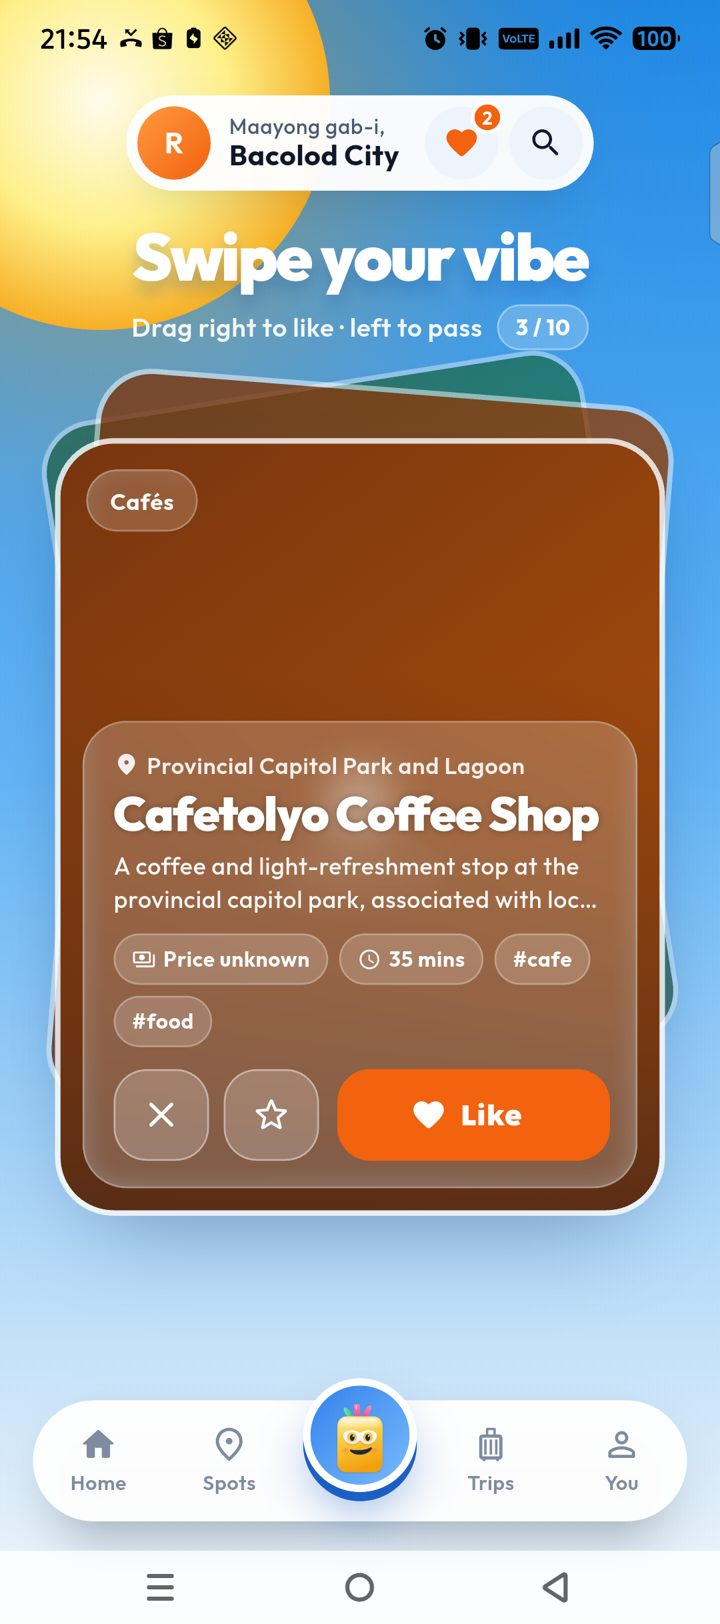
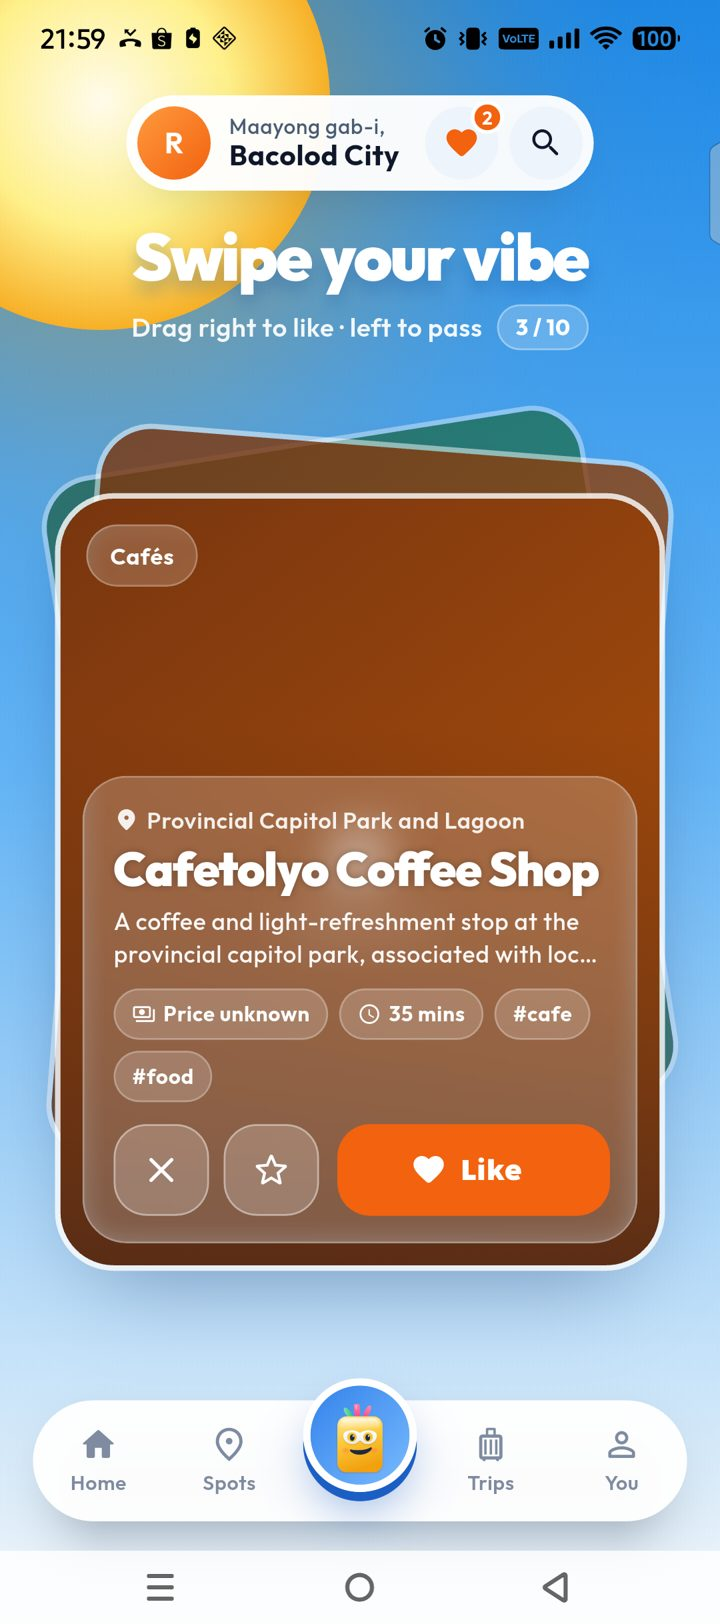
fix: give the swipe deck room under its subtitle

diff --git a/frontend/lib/screens/swipe/swipe_deck.dart b/frontend/lib/screens/swipe/swipe_deck.dart
@@ -156,7 +156,8 @@ class _SwipeDeckState extends State<SwipeDeck>
             ),
           ],
         ),
-        const SizedBox(height: 22),
+        // Clear room so the tilted back cards never touch the subtitle.
+        const SizedBox(height: 52),
         Padding(
           // Inset so the whole card reads smaller, not just shorter.
           padding: const EdgeInsets.symmetric(horizontal: 10),

diff --git a/docs/evidence/home-redesign-v3.md b/docs/evidence/home-redesign-v3.md
@@ -142,4 +142,4 @@ Roel asked for the swipe page to match the other pages, with the title centered 
 | [swipe_v3](img/home-v3-android/swipe_v3.jpg) | Centered title and count, smaller stacked cards, frosted panel with ×, ☆ and Like | Pass |
 | Drag recording (frames reviewed, not committed) | Partial right drag: tilt, LIKE stamp, back card leans in, springs back; no swipe sent (still 2/10) | Pass |
 
-Follow-up (Roel): the cards are smaller, then sized to the area Roel marked (1.08 × the screen width tall, 360–440 pt, with a 10 pt side inset), so the card ends just above the nav. "Been here? Rate it" is gone. Rating is now a star button between × and Like, which shows your stars once you rate (for example ★ 4).
+Follow-up (Roel): the cards are smaller, then sized to the area Roel marked (1.08 × the screen width tall, 360–440 pt, with a 10 pt side inset), so the card ends just above the nav. The deck then moved 30 pt lower (52 pt gap under the subtitle), so the tilted back cards no longer touch "Drag right to like". "Been here? Rate it" is gone. Rating is now a star button between × and Like, which shows your stars once you rate (for example ★ 4).
